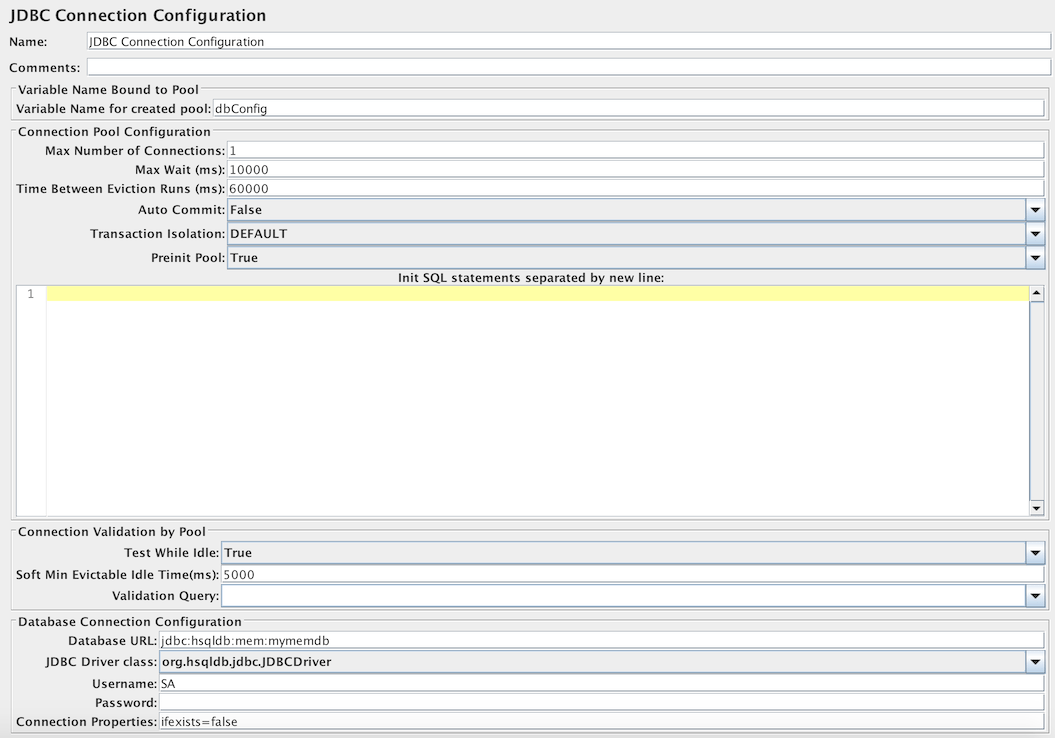
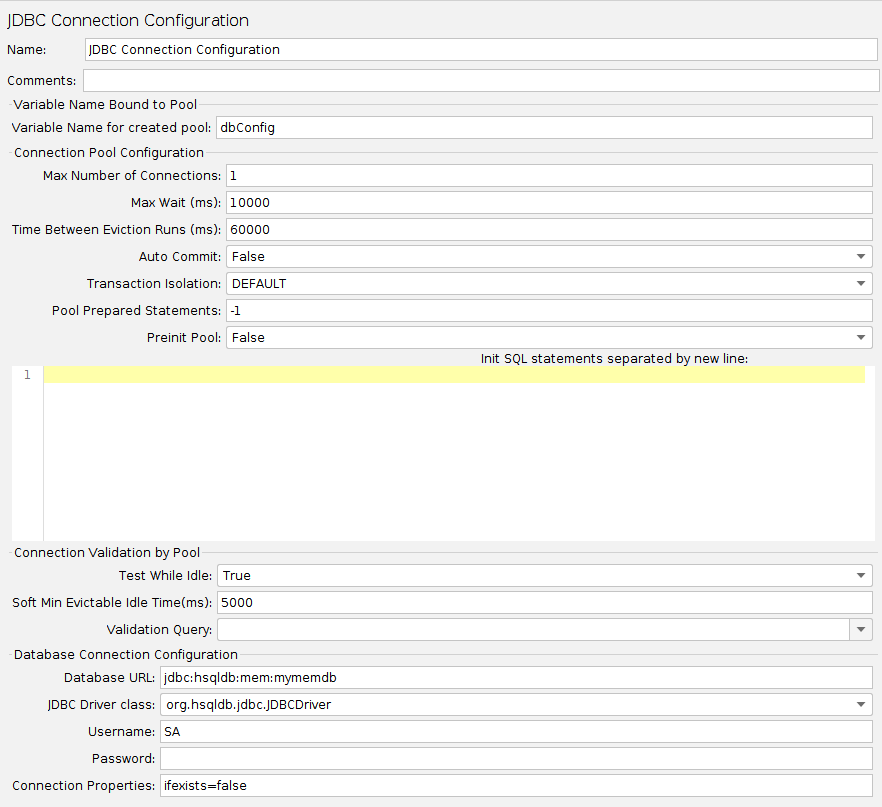
Allow pooling of Prepared Statements in JDBC
Bugzilla Id: 65515

Changed region(s): [[0.0, 0.0, 1.0, 0.9973]]

diff --git a/src/protocol/jdbc/src/main/java/org/apache/jmeter/protocol/jdbc/config/DataSourceElement.java b/src/protocol/jdbc/src/main/java/org/apache/jmeter/protocol/jdbc/config/DataSourceElement.java
@@ -45,7 +45,7 @@ public class DataSourceElement extends AbstractTestElement
     implements ConfigElement, TestStateListener, TestBean {
     private static final Logger log = LoggerFactory.getLogger(DataSourceElement.class);
 
-    private static final long serialVersionUID = 234L;
+    private static final long serialVersionUID = 235L;
 
     private transient String dataSource;
     private transient String driver;
@@ -60,6 +60,7 @@ public class DataSourceElement extends AbstractTestElement
     private transient String timeout;
     private transient String trimInterval;
     private transient String transactionIsolation;
+    private transient String poolPreparedStatements;
 
     private transient boolean keepAlive;
     private transient boolean autocommit;
@@ -214,18 +215,8 @@ public class DataSourceElement extends AbstractTestElement
         BasicDataSource dataSource = new BasicDataSource();
 
         if (log.isDebugEnabled()) {
-            StringBuilder sb = new StringBuilder(40);
-            sb.append("MaxPool: ");
-            sb.append(maxPool);
-            sb.append(" Timeout: ");
-            sb.append(getTimeout());
-            sb.append(" TrimInt: ");
-            sb.append(getTrimInterval());
-            sb.append(" Auto-Commit: ");
-            sb.append(isAutocommit());
-            sb.append(" Preinit: ");
-            sb.append(isPreinit());
-            log.debug(sb.toString());
+            log.debug("MaxPool: {} Timeout: {} TrimInt: {} Auto-Commit: {} Preinit: {} poolPreparedStatements: {}",
+                    maxPool, getTimeout(), getTrimInterval(), isAutocommit(), isPreinit(), poolPreparedStatements);
         }
         int poolSize = Integer.parseInt(maxPool);
         dataSource.setMinIdle(0);
@@ -239,6 +230,15 @@ public class DataSourceElement extends AbstractTestElement
         }
         if(StringUtils.isNotEmpty(connectionProperties)) {
             dataSource.setConnectionProperties(connectionProperties);
+        }
+        if (StringUtils.isNotEmpty(poolPreparedStatements)) {
+            int maxPreparedStatements = Integer.parseInt(poolPreparedStatements);
+            if (maxPreparedStatements < 0) {
+                dataSource.setPoolPreparedStatements(false);
+            } else {
+                dataSource.setPoolPreparedStatements(true);
+                dataSource.setMaxOpenPreparedStatements(10);
+            }
         }
         dataSource.setRollbackOnReturn(false);
         dataSource.setMaxIdle(poolSize);
@@ -642,5 +642,25 @@ public class DataSourceElement extends AbstractTestElement
      */
     public void setConnectionProperties(String connectionProperties) {
         this.connectionProperties = connectionProperties;
+    }
+
+    /**
+     * Return the max number of pooled prepared statements. "0" means no limit
+     * on prepared statements to pool and "-1" disables pooling.
+     *
+     * @return the max number of pooled prepared statements
+     */
+    public String getPoolPreparedStatements() {
+        return poolPreparedStatements;
+    }
+
+    /**
+     * Set the max number of pooled prepared statements. "0" means no limit
+     * on prepared statements to pool and "-1" disables pooling.
+     *
+     * @param poolPreparedStatements max number of prepared statements
+     */
+    public void setPoolPreparedStatements(String poolPreparedStatements) {
+        this.poolPreparedStatements = poolPreparedStatements;
     }
 }

diff --git a/src/protocol/jdbc/src/main/java/org/apache/jmeter/protocol/jdbc/config/DataSourceElementBeanInfo.java b/src/protocol/jdbc/src/main/java/org/apache/jmeter/protocol/jdbc/config/DataSourceElementBeanInfo.java
@@ -50,7 +50,7 @@ public class DataSourceElementBeanInfo extends BeanInfoSupport {
         createPropertyGroup("varName", new String[] { "dataSource" });
 
         createPropertyGroup("pool", new String[] { "poolMax", "timeout",
-                "trimInterval", "autocommit", "transactionIsolation", "preinit", "initQuery" });
+                "trimInterval", "autocommit", "transactionIsolation", "poolPreparedStatements", "preinit", "initQuery" });
 
         createPropertyGroup("keep-alive", new String[] { "keepAlive", "connectionAge", "checkQuery" });
 
@@ -78,6 +78,10 @@ public class DataSourceElementBeanInfo extends BeanInfoSupport {
         Set<String> modesSet = TRANSACTION_ISOLATION_MAP.keySet();
         String[] modes = modesSet.toArray(new String[modesSet.size()]);
         p.setValue(TAGS, modes);
+        p = property("poolPreparedStatements");
+        p.setValue(NOT_UNDEFINED, Boolean.TRUE);
+        p.setValue(DEFAULT_NOT_SAVED, Boolean.TRUE);
+        p.setValue(DEFAULT, "-1");
         p = property("preinit");
         p.setValue(NOT_UNDEFINED, Boolean.TRUE);
         p.setValue(DEFAULT, Boolean.FALSE);
